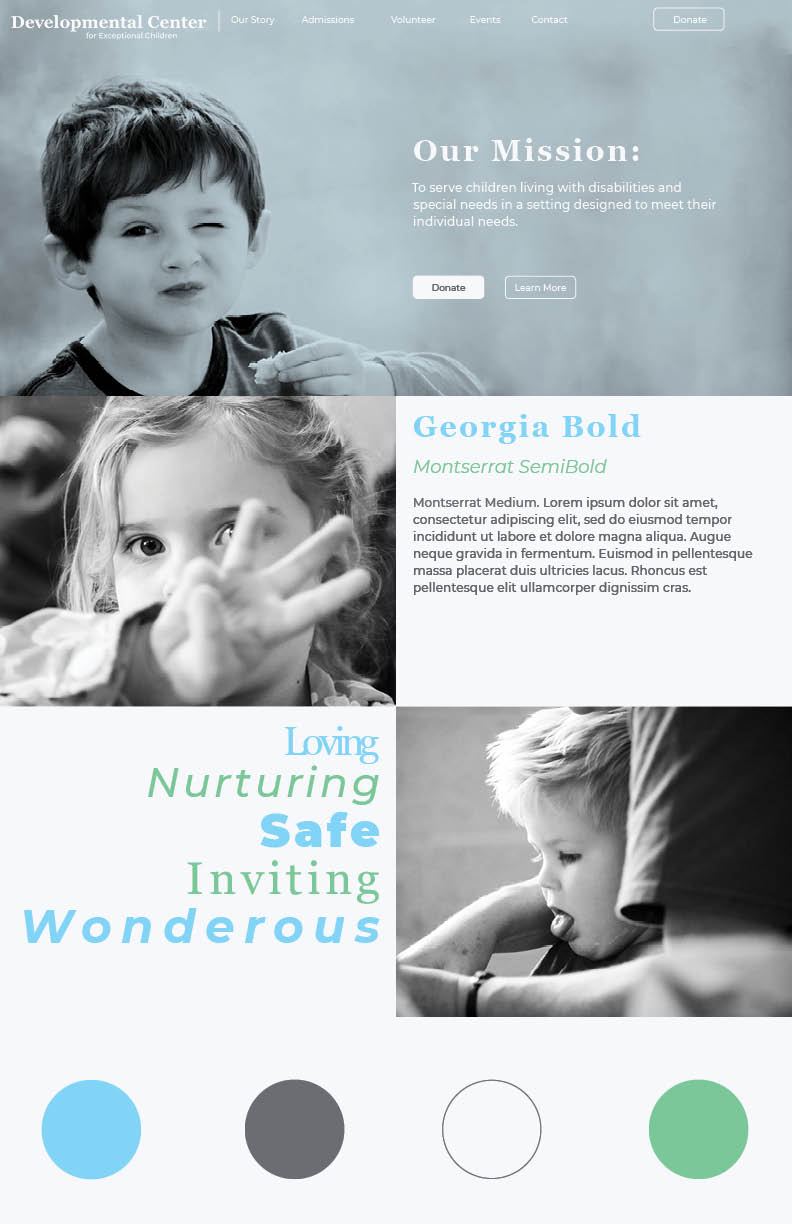
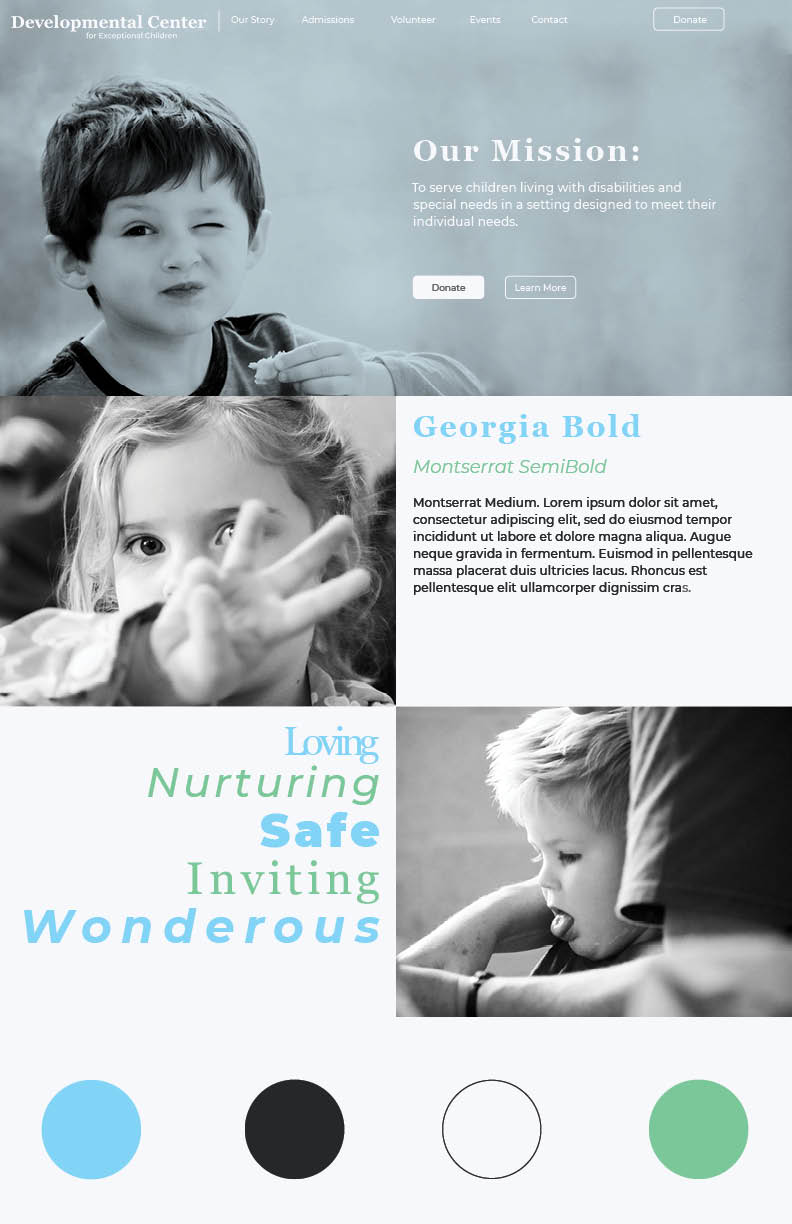
Css Update

Changed region(s): [[0.5152, 0.4036, 0.9394, 0.4967], [0.303, 0.8693, 0.4545, 0.9624], [0.303, 0.2794, 0.3333, 0.3105]]

diff --git a/assets/css/custom.css b/assets/css/custom.css
@@ -6,13 +6,13 @@
 /* If you want to add a background image to the home page banner instead of using a solid color.
 Just un comment the #banner rule below. */
 #banner {
-  background-image: url(../../images/DCEC/w7.jpg);
+  background-image: url(../../images/DCEC/w12.jpg);
   background-size: cover;
   color: rgba(255, 255, 255, 0.75);
   text-shadow: 1px 1px 15px #333;
   text-align: center;
   cursor: default;
-  padding: 10em 4em 9em 4em;
+  padding: 18em 18em 18em 18em;
 }
 
 
@@ -38,7 +38,7 @@ added to the button in the index html file as well.*/
   background-color: #252629;
 }
 #header .logo strong{
-  font-family: Montserrat-Bold, sans-serif;
+  font-family: Montserrat-SemiBold, sans-serif;
   font-size: 18px;
   color: rgba(247, 248, 252, 1);
 }
@@ -67,12 +67,12 @@ added to the button in the index html file as well.*/
 
 /* Design Challenge */
 .post.style1 .content {
-  background: #7ED5FC;
+  background: #79c7e2;
   color: rgba(247, 248, 252, 1)
 }
 .post.style1 a {
   color: rgba(247, 248, 252, 1);
-  font-family: Montserrat-Bold, sans-serif;
+  font-family: Georgia, serif;
 }
 .post.style1 p {
   font-family: Montserrat-Regular, sans-serif;
@@ -82,7 +82,7 @@ added to the button in the index html file as well.*/
 .post.style1 .button.alt {
   background-color: rgba(247, 248, 252, 1);
   box-shadow: inset 0 0 0 0px rgba(144, 144, 144, 0.25);
-  color: #7ED5FC !important;
+  color: #79c7e2 !important;
   font-family: Montserrat-semibold, sans-serif;
 }
 .post.style1 .button.alt:hover {
@@ -95,7 +95,7 @@ added to the button in the index html file as well.*/
 }
 .post.style1.invert a {
   color: #252629;
-  font-family: Montserrat-Bold, sans-serif;
+  font-family: Georgia, serif;
 }
 .post.style1.invert p {
   font-family: Montserrat-Regular, sans-serif;
@@ -114,11 +114,11 @@ added to the button in the index html file as well.*/
 }
 /* Audience and Goals */
 .post.style2 .content {
-  background: #61E8A3;
+  background: #98e2b0;
 }
 .post.style2 a {
   color: rgba(247, 248, 252, 1);
-  font-family: Montserrat-Bold, sans-serif;
+  font-family: Georgia, serif;
 }
 .post.style2 p {
   font-family: Montserrat-Regular, sans-serif;
@@ -128,7 +128,7 @@ added to the button in the index html file as well.*/
 .post.style2 .button.alt {
   background-color: rgba(247, 248, 252, 1);
   box-shadow: inset 0 0 0 0px rgba(144, 144, 144, 0.25);
-  color: #61E8A3 !important;
+  color: #98e2b0 !important;
   font-family: Montserrat-semibold, sans-serif;
 }
 .post.style2 .button.alt:hover {
@@ -141,7 +141,7 @@ added to the button in the index html file as well.*/
 }
 .post.style2.invert a {
   color: #252629;
-  font-family: Montserrat-Bold, sans-serif;
+  font-family: Georgia, serif;
 }
 .post.style2.invert p {
   font-family: Montserrat-Regular, sans-serif;
@@ -167,7 +167,7 @@ added to the button in the index html file as well.*/
 header p{
   font-family: Montserrat-Italic, Italic;
   font-size: 6px;
-  color: rgba(107, 109, 114, .5);
+  color: rgba(158, 212, 172, 1);
 }
 h1{
   font-family: Georgia-Bold, serif;
@@ -177,11 +177,11 @@ h1{
 h2{
   font-family: Montserrat-SemiBoldItalic, sans-serif;
   font-size: 28px;
-  color: #252629;
+  color: #79c7e2;
 }
 h3{
   font-family: Montserrat-Bold, sans-serif;
-  font-size: 24px;
+  font-size: 20px;
   color: #252629;
 }
 h4{
@@ -211,6 +211,20 @@ div.inner {
 }
 table th {
   font-family: Montserrat-Regular, sans-serif;
-  font-size: 15px;
-  color: rgba(107, 109, 114, .5);
+  font-size: 12px;
+  color: rgba(37, 38, 41, 1);
+}
+.row.uniform.\35 0\25 {
+    margin: 5em 0 2em -1em;
+}
+table.alt tbody tr td.a {
+  background-color: rgba(126, 202, 226, 1);
+  border-color: rgba(144, 144, 144, 0.25);
+}
+table.alt tbody tr td.b {
+  background-color: rgba(158, 212, 172, 1);
+  border-color: rgba(144, 144, 144, 0.25);
+}
+table.alt tbody tr td ul {
+  color: rgba(247, 248, 252, 1);
 }

diff --git a/research.html b/research.html
@@ -123,14 +123,14 @@
               </thead>
               <tbody>
                 <tr>
-                  <td>
+                  <td class="a">
                     <ul>
                       <li>Shows history of the DCEC well</li>
                       <li>Provides a web presence</li>
                       <li>Maps</li>
                     </ul>
                   </td>
-                  <td>
+                  <td class="b">
                     <ul>
                       <li>Cluttered</li>
                       <li>Not user friendly</li>
